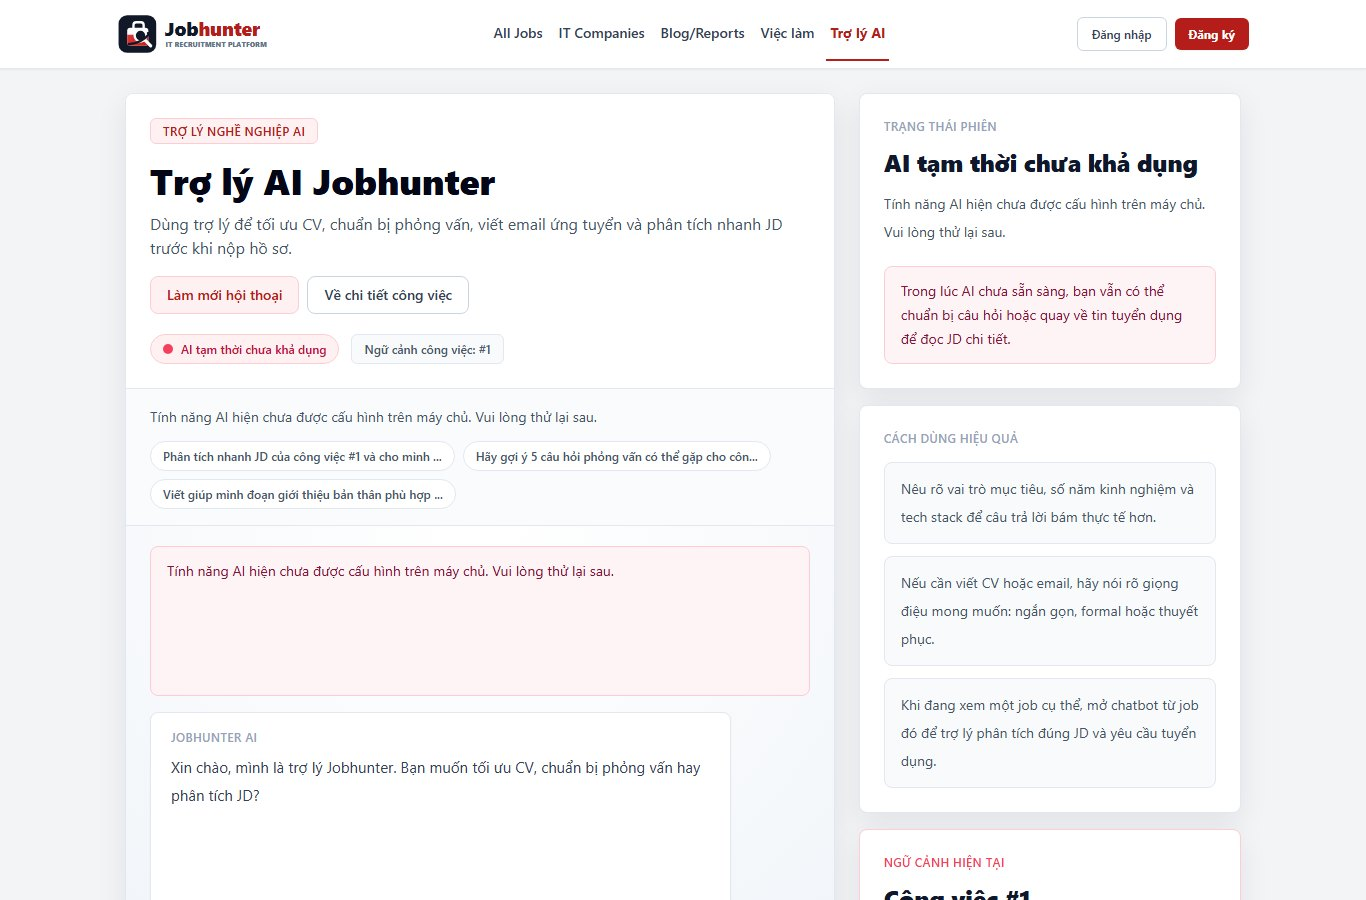
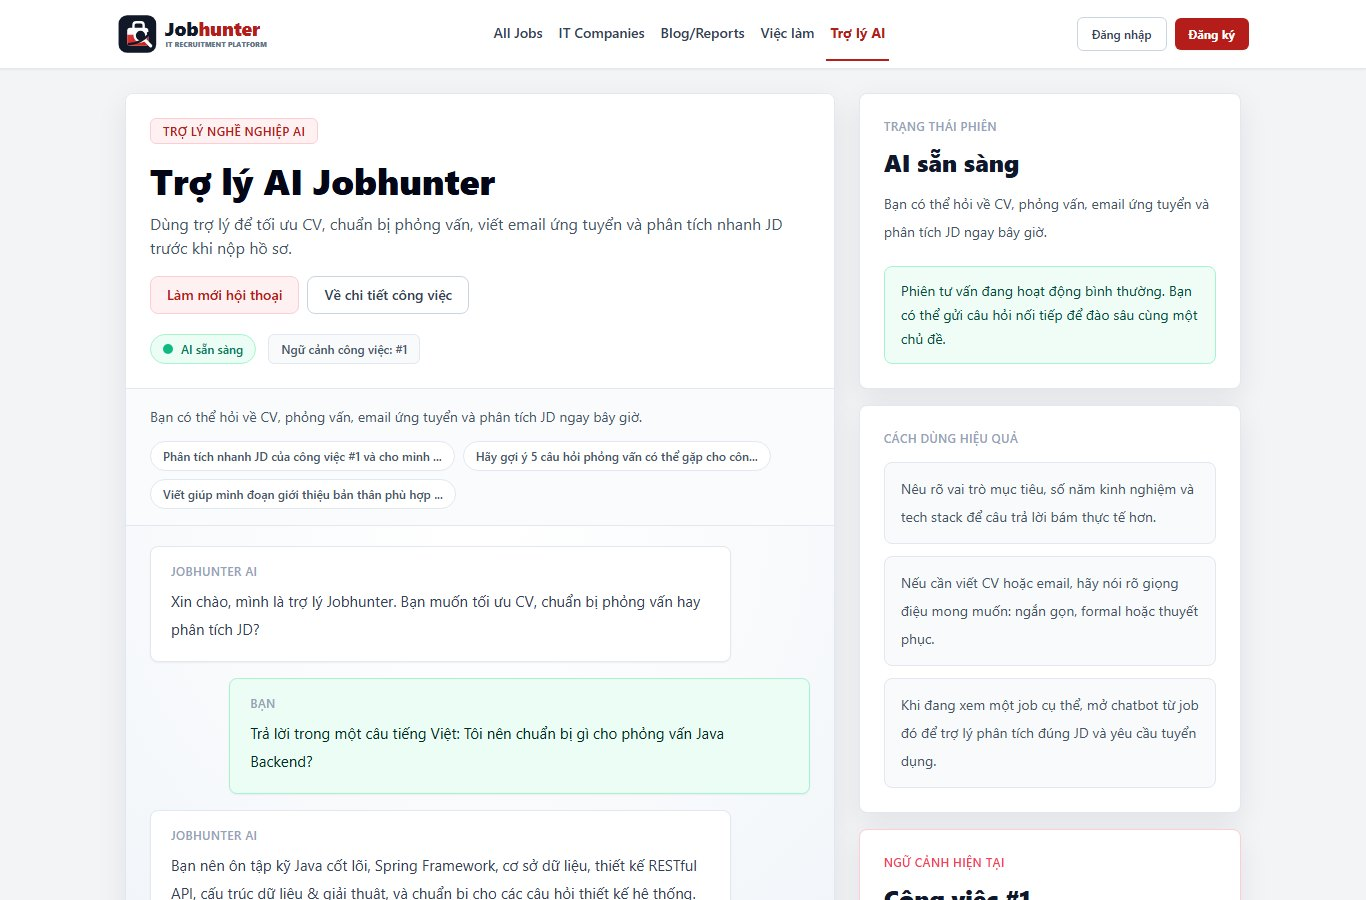
docs: refresh gemini ai assistant screenshot

diff --git a/README.md b/README.md
@@ -58,9 +58,9 @@ Screenshots below are generated from the local production build with the QA scan
 | --- | --- |
 | ![Jobhunter candidate workspace with saved jobs, CV library, and application history](docs/assets/screenshots/jobhunter-candidate-workspace.jpg) | ![Jobhunter recruiter resume pipeline with filters, status workflow, and audit timeline](docs/assets/screenshots/jobhunter-recruiter-pipeline.jpg) |
 
-| Admin users | AI assistant and mobile |
+| Admin users | Gemini AI assistant |
 | --- | --- |
-| ![Jobhunter admin users management screen](docs/assets/screenshots/jobhunter-admin-users.jpg) | ![Jobhunter AI assistant page](docs/assets/screenshots/jobhunter-chatbot.jpg) |
+| ![Jobhunter admin users management screen](docs/assets/screenshots/jobhunter-admin-users.jpg) | ![Jobhunter Gemini AI assistant with live chat response](docs/assets/screenshots/jobhunter-chatbot.jpg) |
 
 ## Documentation
 

diff --git a/docs/ABOUT.md b/docs/ABOUT.md
@@ -57,7 +57,7 @@ These images are captured from the local production container stack and refreshe
 | Candidate workspace with saved jobs, CV library, application history, and status timeline | ![Candidate workspace](assets/screenshots/jobhunter-candidate-workspace.jpg) |
 | Recruiter resume pipeline with company-scoped workflow and audit notes | ![Recruiter pipeline](assets/screenshots/jobhunter-recruiter-pipeline.jpg) |
 | Admin user management for operational control | ![Admin users management](assets/screenshots/jobhunter-admin-users.jpg) |
-| AI assistant route with graceful unavailable state when no AI provider is configured | ![AI assistant](assets/screenshots/jobhunter-chatbot.jpg) |
+| Gemini-powered AI assistant with job-context prompts and live chat response | ![Gemini AI assistant](assets/screenshots/jobhunter-chatbot.jpg) |
 
 ## Portfolio Positioning
 